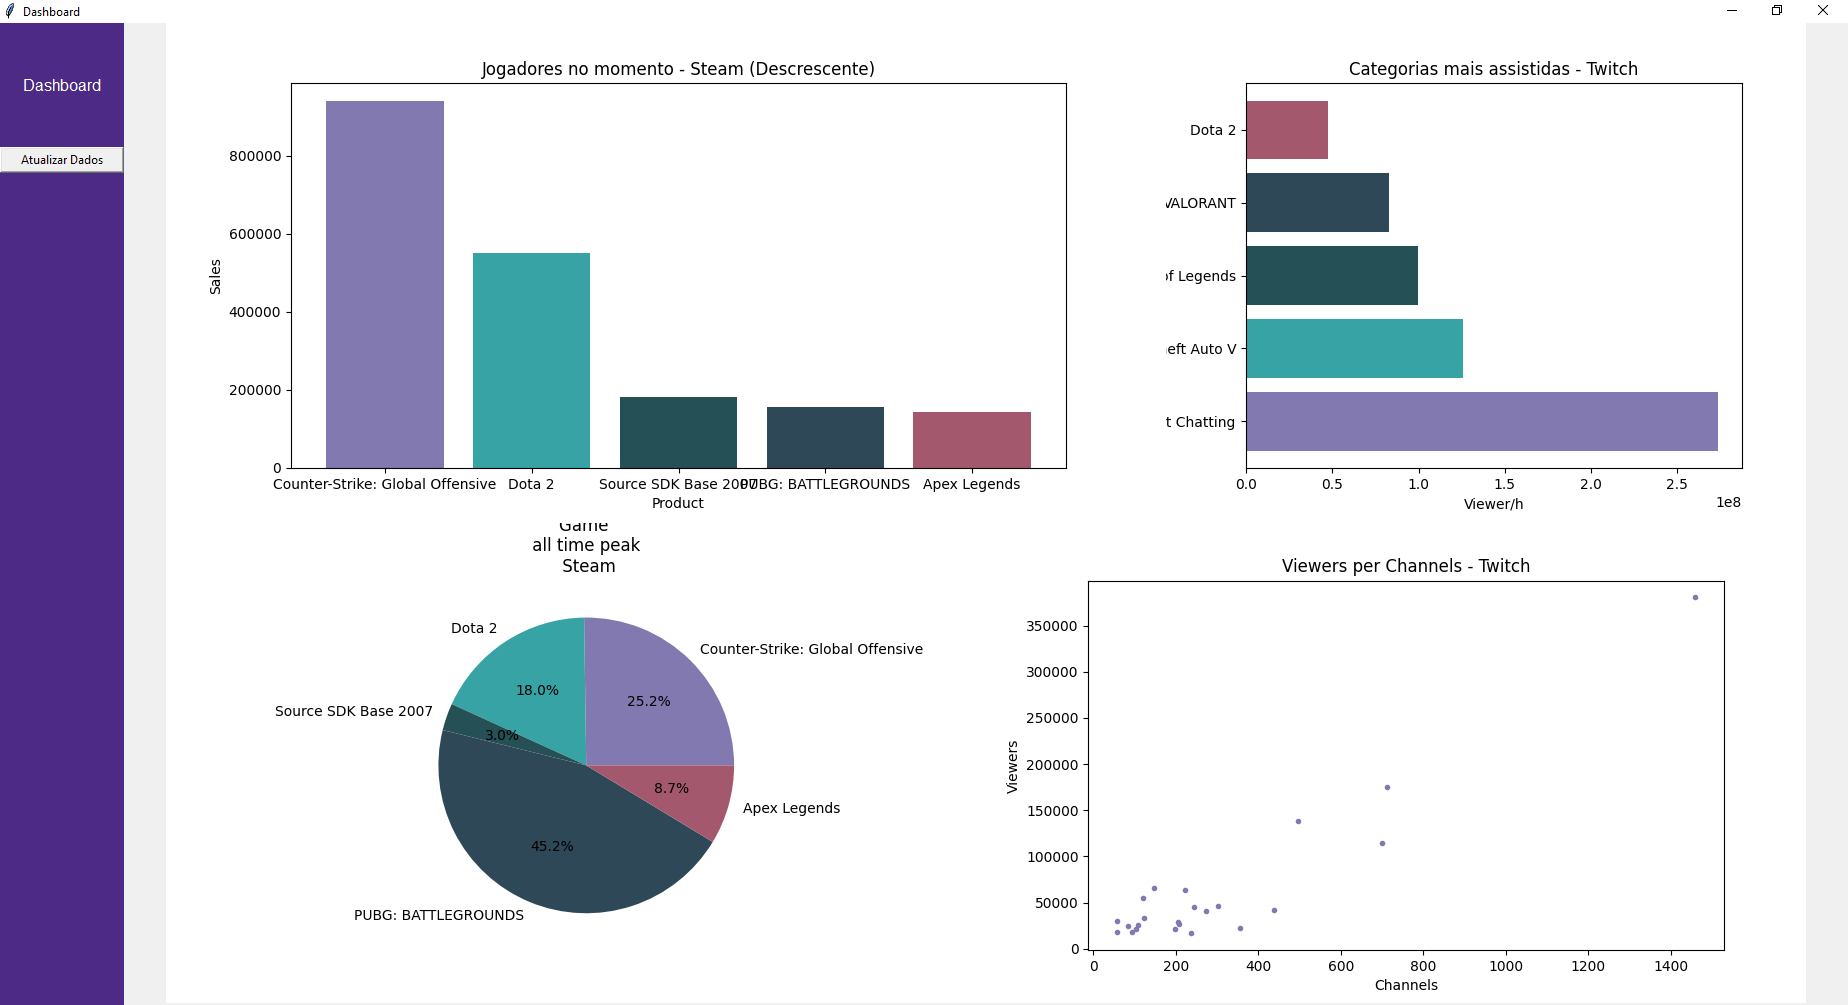
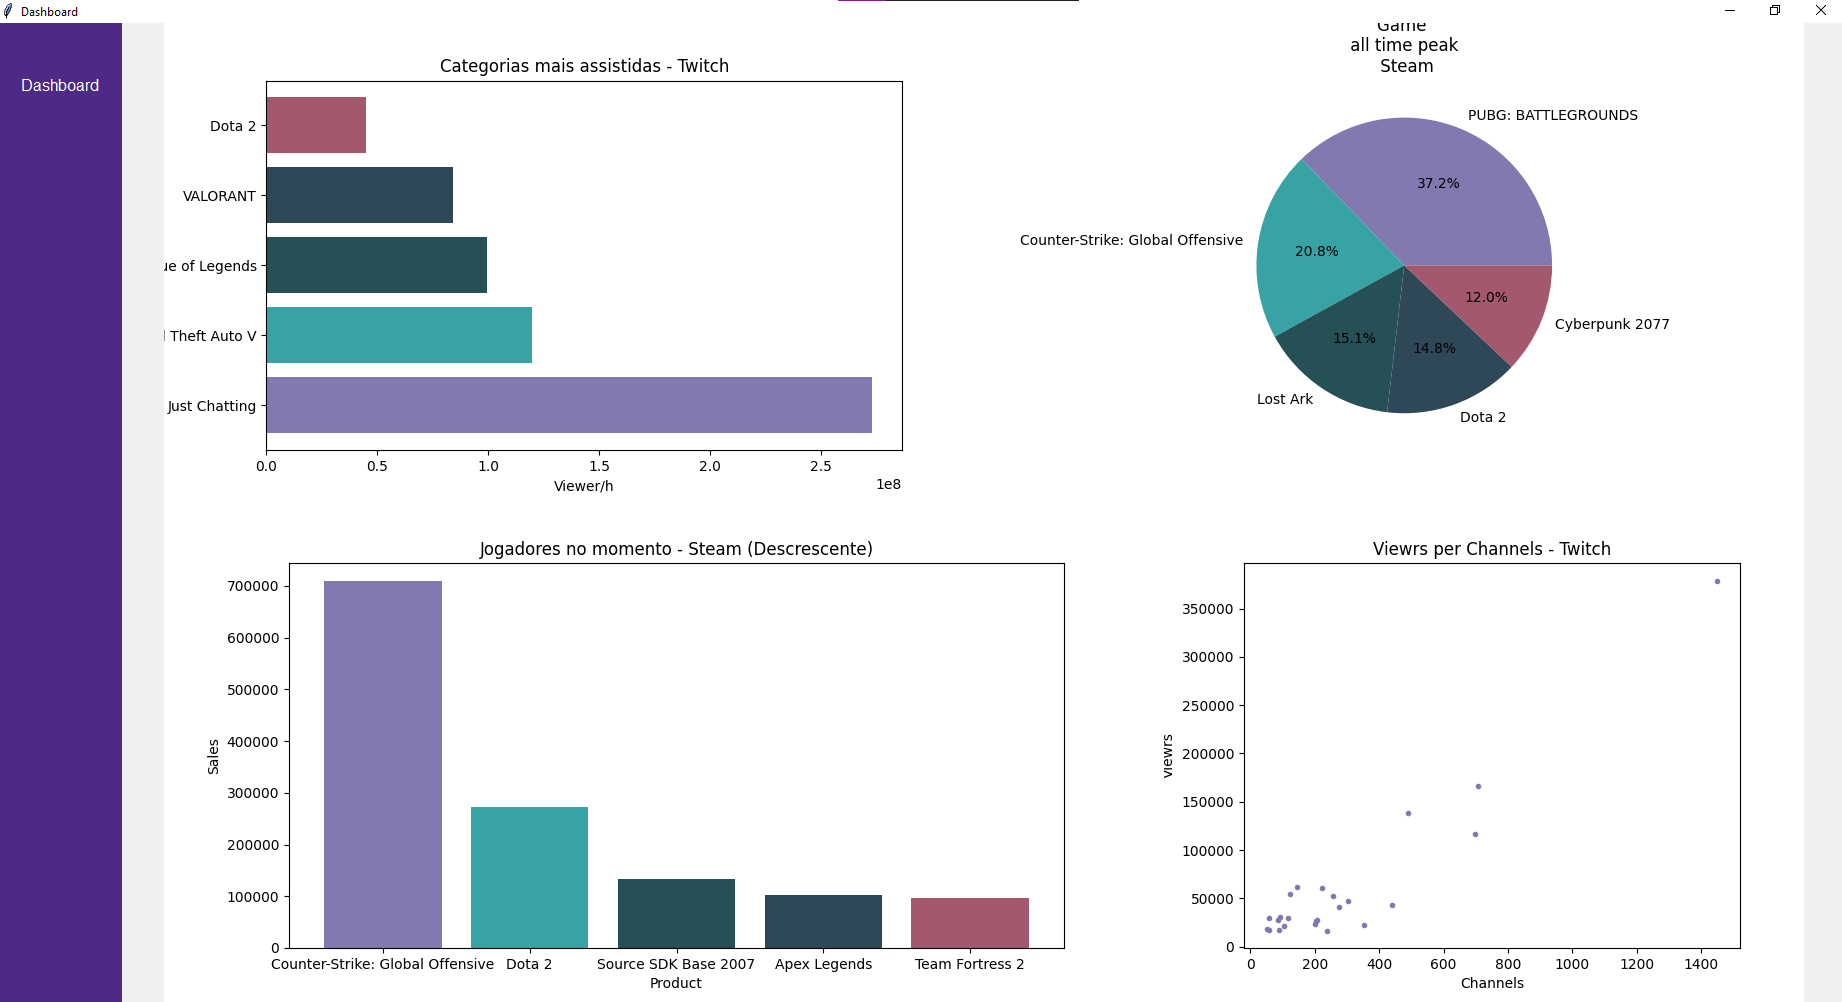
att Dashboardo com Streamlit

diff --git a/Web_Scraping_Steam-Twitch/library/dashboard_Streamlit.py b/Web_Scraping_Steam-Twitch/library/dashboard_Streamlit.py
@@ -1,0 +1,116 @@
+import streamlit as st
+import altair as alt
+import pandas as pd
+from library.conexao import Scraper
+
+# Configuração de layout
+st.set_page_config(layout="wide")
+
+# Função para carregar e processar os dados
+def load_data():
+    obj = Scraper()
+
+    # Obtendo dados Twitch e Steam
+    df_steam = obj.get_dados_steam()
+    df_twitch = obj.get_dados_twitch()
+    obj.fechar_navegador()
+
+    # DF da união das duas tabelas
+    df_merge = df_twitch.merge(df_steam, on='Jogo', how='inner')
+    return df_steam, df_twitch, df_merge
+
+# Função para plotar gráficos
+def plot_charts(df_steam, df_twitch, df_merge):
+    # Gráficos de categorias da Twitch
+    st.header("Principais Categorias da Twitch")
+
+    col1, col2 = st.columns(2)
+
+    with col1:
+        twitch_bar_chart = alt.Chart(df_twitch.head(10)).mark_bar().encode(
+            x=alt.X('Jogo', sort=None, title='Categoria'),
+            y=alt.Y('Viewer Hours', title='Horas Assistidas'),
+            color=alt.Color('Viewer Hours', scale=alt.Scale(scheme='blues')),
+            tooltip=['Jogo', 'Viewer Hours']
+        ).properties(
+            title="Horas Assistidas por Categoria - Twitch"
+        )
+        st.altair_chart(twitch_bar_chart, use_container_width=True)
+
+    with col2:
+        twitch_avg_channels_chart = alt.Chart(df_twitch.sort_values(by='Avg Live Channels', ascending=False).head(10)).mark_bar().encode(
+            x=alt.X('Avg Live Channels', title='Canais ao Vivo (Média)'),
+            y=alt.Y('Jogo', sort=None, title='Categoria'),
+            color=alt.Color('Avg Live Channels', scale=alt.Scale(scheme='greens')),
+            tooltip=['Jogo', 'Avg Live Channels']
+        ).properties(
+            title="Média de Canais ao Vivo por Categoria - Twitch"
+        )
+        st.altair_chart(twitch_avg_channels_chart, use_container_width=True)
+
+    # Gráficos de jogos populares na Steam
+    st.header("Jogos Mais Populares na Steam")
+
+    col3, col4 = st.columns(2)
+
+    with col3:
+        steam_bar_chart = alt.Chart(df_steam.sort_values(by="jogadores_at_moment", ascending=False).head(10)).mark_bar().encode(
+            x=alt.X('Jogo', sort=None, title="Jogo"),
+            y=alt.Y('jogadores_at_moment', title="Jogadores no Momento"),
+            color=alt.Color('jogadores_at_moment', scale=alt.Scale(scheme='reds')),
+            tooltip=['Jogo', 'jogadores_at_moment']
+        ).properties(
+            title="Jogadores no Momento - Steam"
+        )
+        st.altair_chart(steam_bar_chart, use_container_width=True)
+
+    with col4:
+        steam_line_chart = alt.Chart(df_steam.head(10)).mark_line(point=True).encode(
+            x=alt.X('Jogo', sort=None, title="Jogo"),
+            y=alt.Y('24h_peek', title="Pico de 24h"),
+            color=alt.value('orange'),
+            tooltip=['Jogo', '24h_peek']
+        ).properties(
+            title="Pico de Jogadores (24h) - Steam"
+        )
+        st.altair_chart(steam_line_chart, use_container_width=True)
+
+    # Gráfico de correlação entre Twitch e Steam
+    st.header("Correlação Entre Popularidade na Twitch e Steam")
+
+    scatter_chart = alt.Chart(df_merge).mark_point(filled=True, size=100).encode(
+        x=alt.X('jogadores_at_moment:Q', title='Jogadores no Momento - Steam'),
+        y=alt.Y('Viewer Hours:Q', title='Horas Assistidas - Twitch'),
+        color=alt.Color('Jogo:N', scale=alt.Scale(scheme='set2')),
+        tooltip=['Jogo', 'jogadores_at_moment', 'Viewer Hours']
+    ).properties(
+        title="Relação Entre Jogos Mais Assistidos e Mais Jogados"
+    )
+    st.altair_chart(scatter_chart, use_container_width=True)
+
+    # Disponibilização da Base de dados
+    st.markdown('---')
+    st.subheader('Bases de Dados')
+
+    col5, col6 = st.columns(2)
+
+    with col5:
+        with st.expander("Base de Dados da Twitch"):
+            st.dataframe(df_twitch, use_container_width=True)
+
+    with col6:
+        with st.expander("Base de Dados da Steam"):
+            st.dataframe(df_steam, use_container_width=True)
+
+# Título do Dashboard
+st.title("Dashboard de Análise: Twitch vs. Steam")
+
+# Adiciona o botão na barra lateral
+st.sidebar.header("Configurações")
+if st.sidebar.button("Atualizar Dados"):
+    df_steam, df_twitch, df_merge = load_data()
+    plot_charts(df_steam, df_twitch, df_merge)
+else:
+    # Carrega e exibe os gráficos na primeira abertura
+    df_steam, df_twitch, df_merge = load_data()
+    plot_charts(df_steam, df_twitch, df_merge)

diff --git a/Web_Scraping_Steam-Twitch/library/dashboard_Tkinter.py b/Web_Scraping_Steam-Twitch/library/dashboard_Tkinter.py
@@ -75,9 +75,15 @@ class Dashboard(tk.Tk):
         df_twitch = obj.get_dados_twitch()
         obj.fechar_navegador()
 
+        # DF da união das duas tabelas
+        df_merge = df_twitch.merge(df_steam, on='Jogo', how='inner')
+        x = df_merge['jogadores_at_moment']
+        y = df_merge['Viewer Hours']
+
         # Atualizacao dos graficos
         # Barras
         df = df_steam.sort_values(by="jogadores_at_moment", ascending=False)
+        self.ax1.clear()
         self.ax1.bar(df['Jogo'].head(5), df['jogadores_at_moment'].head(5), color=self.cores)
         self.ax1.set_title("Jogadores no momento - Steam (Descrescente)")
         self.ax1.set_xlabel("Product")
@@ -99,10 +105,10 @@ class Dashboard(tk.Tk):
 
         # Pontos
         self.ax4.clear()
-        self.ax4.plot(df_twitch['Avg Live Channels'].astype(float), df_twitch['Avg Viewers'].astype(float), '.')
-        self.ax4.set_title("Viewers per Channels - Twitch")
-        self.ax4.set_xlabel("Channels")
-        self.ax4.set_ylabel("Viewers")
+        self.ax4.plot(x.astype(float), y.astype(float), '.')
+        self.ax4.set_title("Mais jogados por Mais assistidos")
+        self.ax4.set_xlabel("Jogadores no Momento")
+        self.ax4.set_ylabel("Views per Hours")
         self.canvas4.draw()
 
 if __name__ == "__main__":

diff --git a/Web_Scraping_Steam-Twitch/main.py b/Web_Scraping_Steam-Twitch/main.py
@@ -1,7 +1,32 @@
-from library.dashboard import Dashboard
+"""
+#DashBoard com Tkinter
+from library.dashboard_Tkinter import Dashboard
 
 dashboard = Dashboard()
-dashboard.mainloop()
+dashboard.mainloop()"""
 
 
+# DashBoard com Streamlit
 
+import os
+import subprocess
+
+
+def run_streamlit_app(script_name):
+    try:
+        # Comando para rodar o streamlit
+        command = f"streamlit run {script_name}"
+
+        # Abre o streamlit no navegador padrão
+        subprocess.run(command, shell=True)
+
+    except Exception as e:
+        print(f"Erro ao tentar abrir o Streamlit: {e}")
+
+
+if __name__ == "__main__":
+    # Caminho do arquivo do dashboard dentro da pasta 'library'
+    script_name = "library/dashboard_Streamlit.py"
+
+    # Chama a função para abrir o Streamlit
+    run_streamlit_app(script_name)
